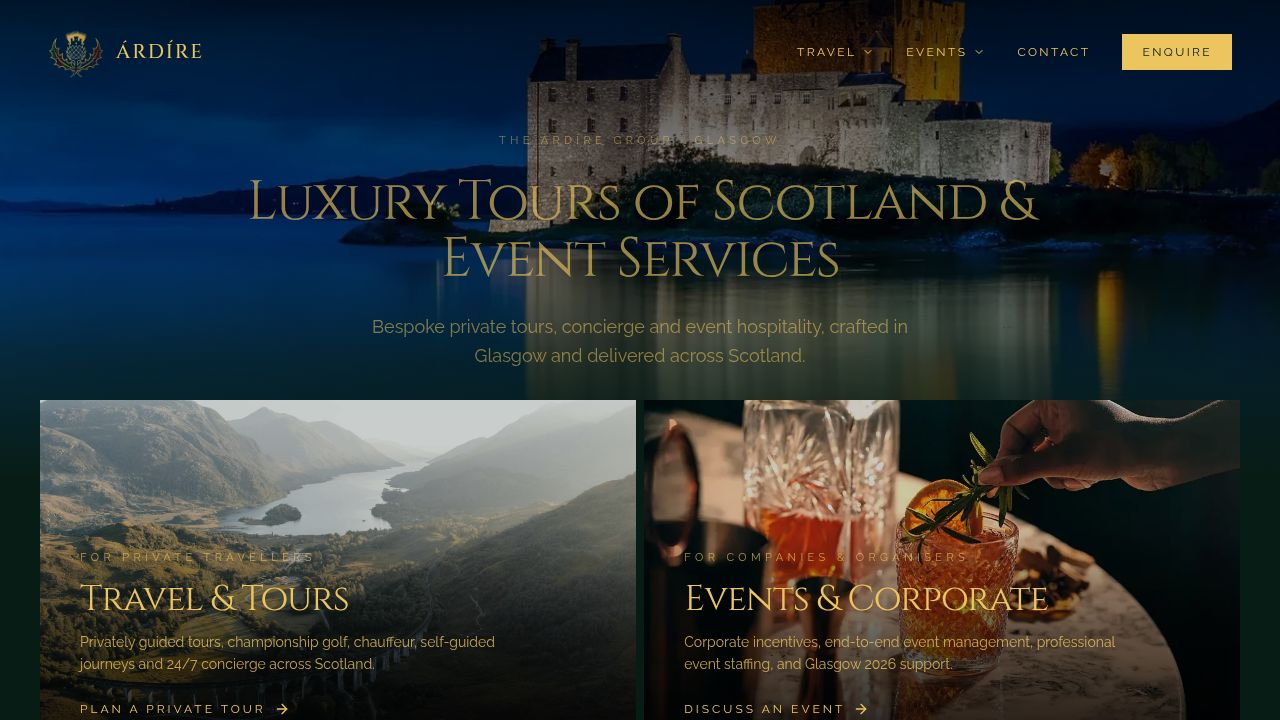
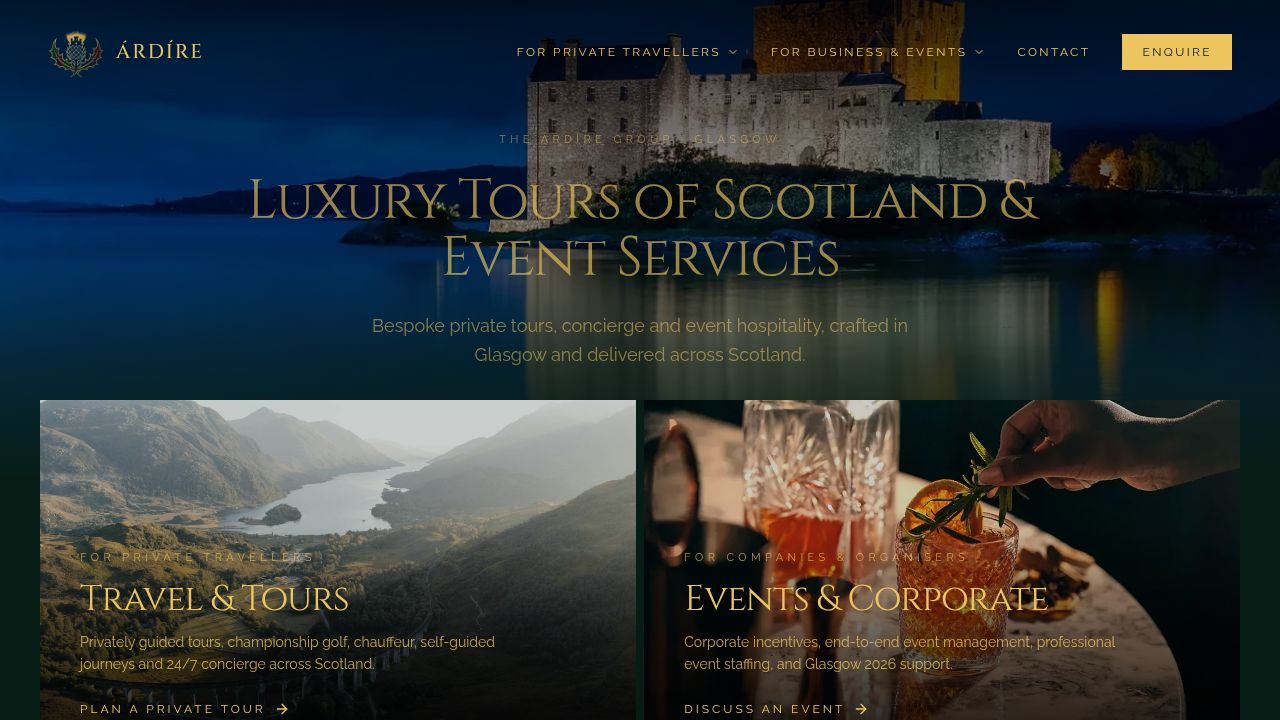
Redesign mobile navigation menu for a more luxurious user experience
Refactors the mobile navigation drawer from a narrow slide-in to a full-screen overlay, updating the UI with the brand logo, gold category labels, italicized hub links, and a clean sans-serif list for services.

Replit-Commit-Author: Agent
Replit-Commit-Session-Id: 4be7c494-de01-4726-bd2d-796e126db087
Replit-Commit-Checkpoint-Type: full_checkpoint
Replit-Commit-Event-Id: d0f17715-3cb9-4c5a-a461-ad36f317c021
Replit-Commit-Screenshot-Url: https://storage.googleapis.com/screenshot-production-us-central1/8b41926d-4b68-4360-acb2-30f3e24624b1/4be7c494-de01-4726-bd2d-796e126db087/CtjEpd3
Replit-Helium-Checkpoint-Created: true

diff --git a/artifacts/ardire/src/components/layout/Navbar.tsx b/artifacts/ardire/src/components/layout/Navbar.tsx
@@ -91,8 +91,6 @@ function NavDropdown({
 export function Navbar() {
   const [scrolled, setScrolled] = useState(false);
   const [mobileMenuOpen, setMobileMenuOpen] = useState(false);
-  const [mobileTravel, setMobileTravel] = useState(false);
-  const [mobileEvents, setMobileEvents] = useState(false);
   const [, navigate] = useLocation();
 
   useEffect(() => {
@@ -103,7 +101,6 @@ export function Navbar() {
 
   useEffect(() => {
     document.body.style.overflow = mobileMenuOpen ? "hidden" : "";
-    if (!mobileMenuOpen) { setMobileTravel(false); setMobileEvents(false); }
     return () => { document.body.style.overflow = ""; };
   }, [mobileMenuOpen]);
 
@@ -186,100 +183,112 @@ export function Navbar() {
         </div>
       </nav>
 
-      {/* Backdrop */}
+      {/* Full-screen mobile overlay */}
       <div
         className={cn(
-          "fixed inset-0 z-40 bg-black/60 backdrop-blur-sm transition-opacity duration-400 md:hidden",
+          "fixed inset-0 z-50 bg-background flex flex-col md:hidden transition-all duration-500 ease-in-out",
           mobileMenuOpen ? "opacity-100 pointer-events-auto" : "opacity-0 pointer-events-none"
         )}
-        onClick={() => setMobileMenuOpen(false)}
-      />
-
-      {/* Slide-in drawer */}
-      <div
-        className={cn(
-          "fixed top-0 right-0 h-full w-72 z-50 bg-background flex flex-col transition-transform duration-500 ease-in-out md:hidden shadow-2xl",
-          mobileMenuOpen ? "translate-x-0" : "translate-x-full"
-        )}
       >
-        <div className="flex items-center justify-between px-8 py-6 border-b border-border/30">
-          <span className="font-display text-base tracking-[0.25em] uppercase text-foreground">Menu</span>
-          <button onClick={() => setMobileMenuOpen(false)} className="text-muted-foreground hover:text-primary transition-colors" aria-label="Close menu">
-            <X size={22} strokeWidth={1.5} />
+        {/* Header */}
+        <div className="flex items-center justify-between px-6 py-5 border-b border-border/20 shrink-0">
+          <button
+            onClick={() => { setMobileMenuOpen(false); navigate("/"); window.scrollTo({ top: 0, behavior: "smooth" }); }}
+            className="flex items-center gap-3 group"
+            aria-label="Go to homepage"
+          >
+            <img
+              src={`${import.meta.env.BASE_URL}images/logo.webp`}
+              alt="Árdíre Logo"
+              className="h-10 w-10 object-contain"
+              style={{ filter: "brightness(0.86) saturate(1.45)" }}
+            />
+            <span className="font-display text-base tracking-widest uppercase text-foreground">ÁRDÍRE</span>
+          </button>
+          <button
+            onClick={() => setMobileMenuOpen(false)}
+            className="text-muted-foreground hover:text-primary transition-colors p-1"
+            aria-label="Close menu"
+          >
+            <X size={24} strokeWidth={1.5} />
           </button>
         </div>
 
-        <ul className="flex flex-col px-8 pt-10 gap-7 overflow-y-auto">
-          {/* Travel */}
-          <li>
-            <button
-              type="button"
-              onClick={() => setMobileTravel((v) => !v)}
-              className="w-full flex items-center justify-between font-display text-xl italic text-foreground hover:text-primary transition-colors"
-            >
-              <span>For Private Travellers</span>
-              <ChevronDown size={18} strokeWidth={1.5} className={cn("transition-transform duration-300", mobileTravel && "rotate-180")} />
-            </button>
-            <div className={cn("grid transition-all duration-400 ease-in-out", mobileTravel ? "grid-rows-[1fr] opacity-100 mt-4" : "grid-rows-[0fr] opacity-0")}>
-              <ul className="overflow-hidden flex flex-col gap-3 pl-4 border-l border-border/40">
-                <li>
-                  <button onClick={() => { setMobileMenuOpen(false); goToHub("/travel"); }} className="font-display text-base text-primary font-semibold hover:text-primary/80 transition-colors block py-0.5 text-left w-full">
-                    View All Travel
-                  </button>
-                </li>
-                <li className="-ml-4 border-t border-border/40" />
-                {travelServices.map((s) => (
-                  <li key={s.slug}>
-                    <button onClick={() => { setMobileMenuOpen(false); goToService(s.slug); }} className="font-display text-base text-muted-foreground hover:text-primary transition-colors block py-0.5 text-left w-full">
-                      {s.title}
-                    </button>
-                  </li>
-                ))}
-              </ul>
-            </div>
-          </li>
+        {/* Scrollable nav body */}
+        <div className="flex-1 overflow-y-auto px-6 py-8 flex flex-col gap-10">
 
-          {/* Events */}
-          <li>
+          {/* Travel section */}
+          <div>
+            <p className="font-sans text-[10px] uppercase tracking-[0.4em] text-primary mb-4">Travel &amp; Tours</p>
             <button
-              type="button"
-              onClick={() => setMobileEvents((v) => !v)}
-              className="w-full flex items-center justify-between font-display text-xl italic text-foreground hover:text-primary transition-colors"
+              onClick={() => { setMobileMenuOpen(false); goToHub("/travel"); }}
+              className="group flex items-center gap-2 font-display text-2xl italic text-foreground hover:text-primary transition-colors duration-300 mb-5 text-left"
             >
-              <span>For Business &amp; Events</span>
-              <ChevronDown size={18} strokeWidth={1.5} className={cn("transition-transform duration-300", mobileEvents && "rotate-180")} />
+              For Private Travellers
+              <span className="text-primary opacity-0 group-hover:opacity-100 transition-opacity duration-300 text-lg">→</span>
             </button>
-            <div className={cn("grid transition-all duration-400 ease-in-out", mobileEvents ? "grid-rows-[1fr] opacity-100 mt-4" : "grid-rows-[0fr] opacity-0")}>
-              <ul className="overflow-hidden flex flex-col gap-3 pl-4 border-l border-border/40">
-                <li>
-                  <button onClick={() => { setMobileMenuOpen(false); goToHub("/events"); }} className="font-display text-base text-primary font-semibold hover:text-primary/80 transition-colors block py-0.5 text-left w-full">
-                    View All Events
-                  </button>
-                </li>
-                <li className="-ml-4 border-t border-border/40" />
-                {eventsServices.map((s) => (
-                  <li key={s.slug}>
-                    <button onClick={() => { setMobileMenuOpen(false); goToService(s.slug); }} className="font-display text-base text-muted-foreground hover:text-primary transition-colors block py-0.5 text-left w-full">
-                      {s.title}
-                    </button>
-                  </li>
-                ))}
-              </ul>
+            <div className="flex flex-col border-t border-border/20">
+              {travelServices.map((s) => (
+                <button
+                  key={s.slug}
+                  onClick={() => { setMobileMenuOpen(false); goToService(s.slug); }}
+                  className="py-3.5 text-left font-sans text-[11px] uppercase tracking-[0.25em] text-muted-foreground hover:text-primary border-b border-border/10 transition-colors duration-200"
+                >
+                  {s.title}
+                </button>
+              ))}
             </div>
-          </li>
+          </div>
+
+          {/* Events section */}
+          <div>
+            <p className="font-sans text-[10px] uppercase tracking-[0.4em] text-primary mb-4">Events &amp; Corporate</p>
+            <button
+              onClick={() => { setMobileMenuOpen(false); goToHub("/events"); }}
+              className="group flex items-center gap-2 font-display text-2xl italic text-foreground hover:text-primary transition-colors duration-300 mb-5 text-left"
+            >
+              For Business &amp; Events
+              <span className="text-primary opacity-0 group-hover:opacity-100 transition-opacity duration-300 text-lg">→</span>
+            </button>
+            <div className="flex flex-col border-t border-border/20">
+              {eventsServices.map((s) => (
+                <button
+                  key={s.slug}
+                  onClick={() => { setMobileMenuOpen(false); goToService(s.slug); }}
+                  className="py-3.5 text-left font-sans text-[11px] uppercase tracking-[0.25em] text-muted-foreground hover:text-primary border-b border-border/10 transition-colors duration-200"
+                >
+                  {s.title}
+                </button>
+              ))}
+            </div>
+          </div>
 
           {/* Contact */}
-          <li>
-            <a href="/#enquiry" onClick={(e) => handleNavLinkClick(e, "contact")} className="font-display text-xl italic text-foreground hover:text-primary transition-colors">
+          <div>
+            <a
+              href="/#enquiry"
+              onClick={(e) => handleNavLinkClick(e, "contact")}
+              className="font-display text-2xl italic text-foreground hover:text-primary transition-colors duration-300"
+            >
               Contact
             </a>
-          </li>
-        </ul>
+          </div>
+        </div>
 
-        <div className="mt-auto px-8 pb-10 pt-8 border-t border-border/30">
-          <p className="font-sans text-xs tracking-widest uppercase text-muted-foreground mb-3">The ÁrdÍre Group</p>
-          <a href="mailto:[email redacted]" className="font-sans text-xs text-muted-foreground hover:text-primary transition-colors block mb-1">[email redacted]</a>
-          <a href="tel:[phone redacted]" className="font-sans text-xs text-muted-foreground hover:text-primary transition-colors block">[phone redacted]</a>
+        {/* Footer CTA */}
+        <div className="shrink-0 px-6 pb-10 pt-6 border-t border-border/20 flex flex-col gap-5">
+          <a
+            href="/#enquiry"
+            onClick={(e) => handleNavLinkClick(e, "contact")}
+            className="block bg-primary hover:bg-primary/90 text-primary-foreground font-sans text-xs uppercase tracking-[0.3em] py-4 text-center transition-colors duration-300"
+          >
+            Enquire Now
+          </a>
+          <div className="flex flex-wrap gap-x-4 gap-y-1 text-[11px] font-sans text-muted-foreground">
+            <a href="mailto:[email redacted]" className="hover:text-primary transition-colors">[email redacted]</a>
+            <span className="text-border">·</span>
+            <a href="tel:[phone redacted]" className="hover:text-primary transition-colors">[phone redacted]</a>
+          </div>
         </div>
       </div>
     </>